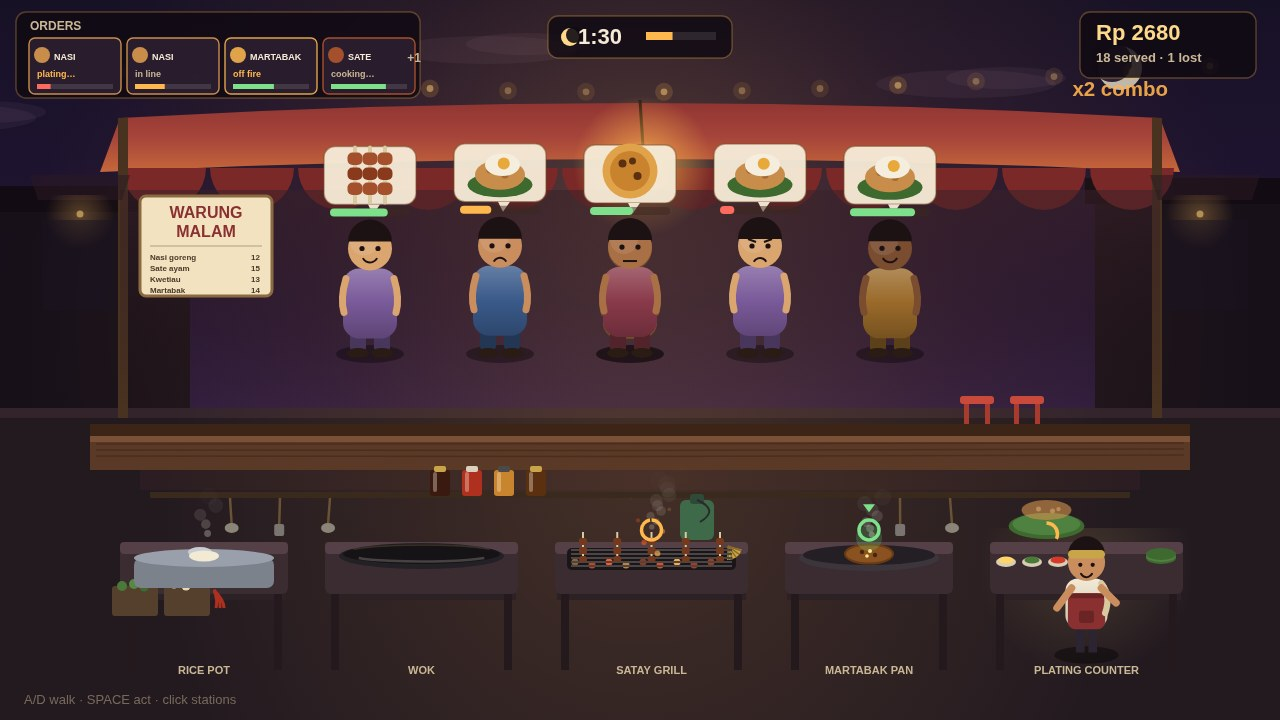
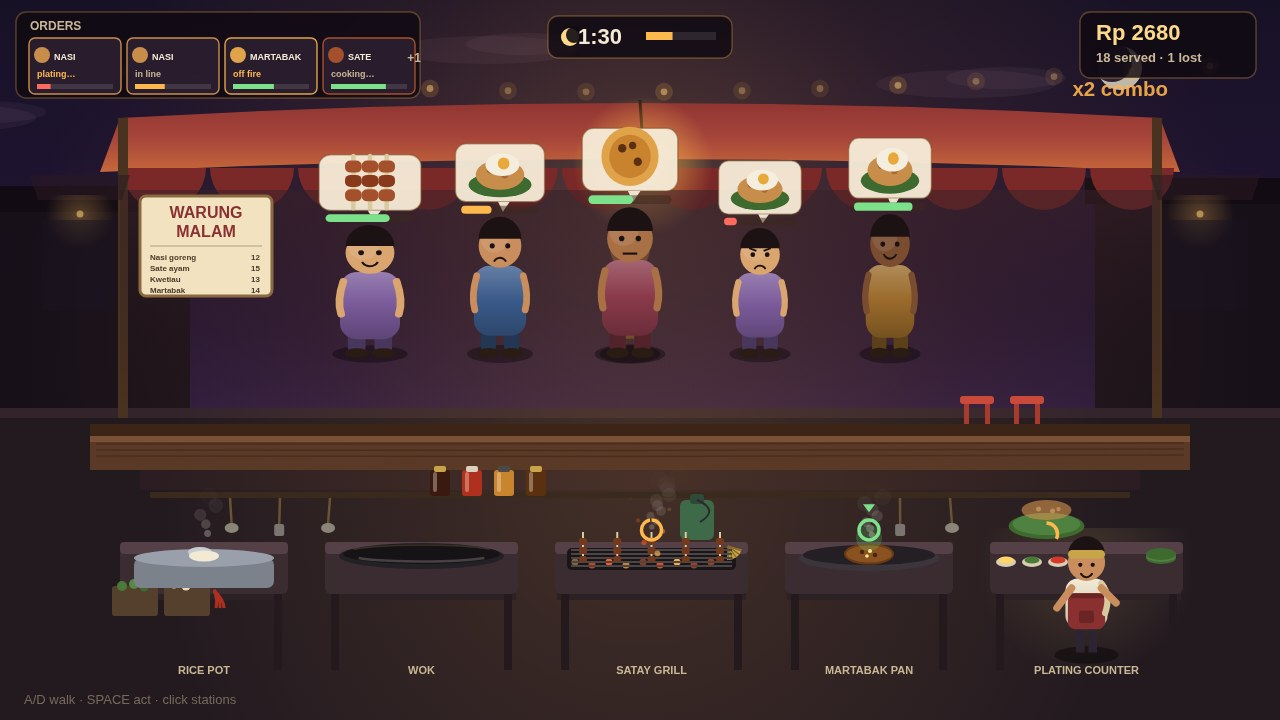
Customer body variety by id — no more identical twins in the queue

Changed region(s): [[0.4062, 0.1528, 0.75, 0.4583], [0.25, 0.1833, 0.375, 0.4583], [0.3125, 0.3972, 0.3438, 0.4278]]

diff --git a/game/src/render.js b/game/src/render.js
@@ -309,6 +309,13 @@ export function createRenderer(canvas) {
     const mood = c.served ? MOOD_PATIENT : moodOf(c);
     ctx.save();
     ctx.globalAlpha = c.left && c.angry ? 0.85 : 1;
+    // every body a little different — height and breadth vary by the customer's own id, so the
+    // queue reads as individuals, not copies of one clip-art figure
+    const hVar = 0.92 + ((c.id * 37) % 5) * 0.04;   // 0.92 .. 1.08 height
+    const wVar = 0.9 + ((c.id * 53) % 4) * 0.07;    // 0.90 .. 1.11 breadth
+    ctx.translate(x, y + 118);
+    ctx.scale(wVar, hVar);
+    ctx.translate(-x, -(y + 118));
 
     ellipse(x, y + 118, 34, 9, 'rgba(0,0,0,0.35)');
     // legs and feet — the queue stands on the street, it doesn't hover
